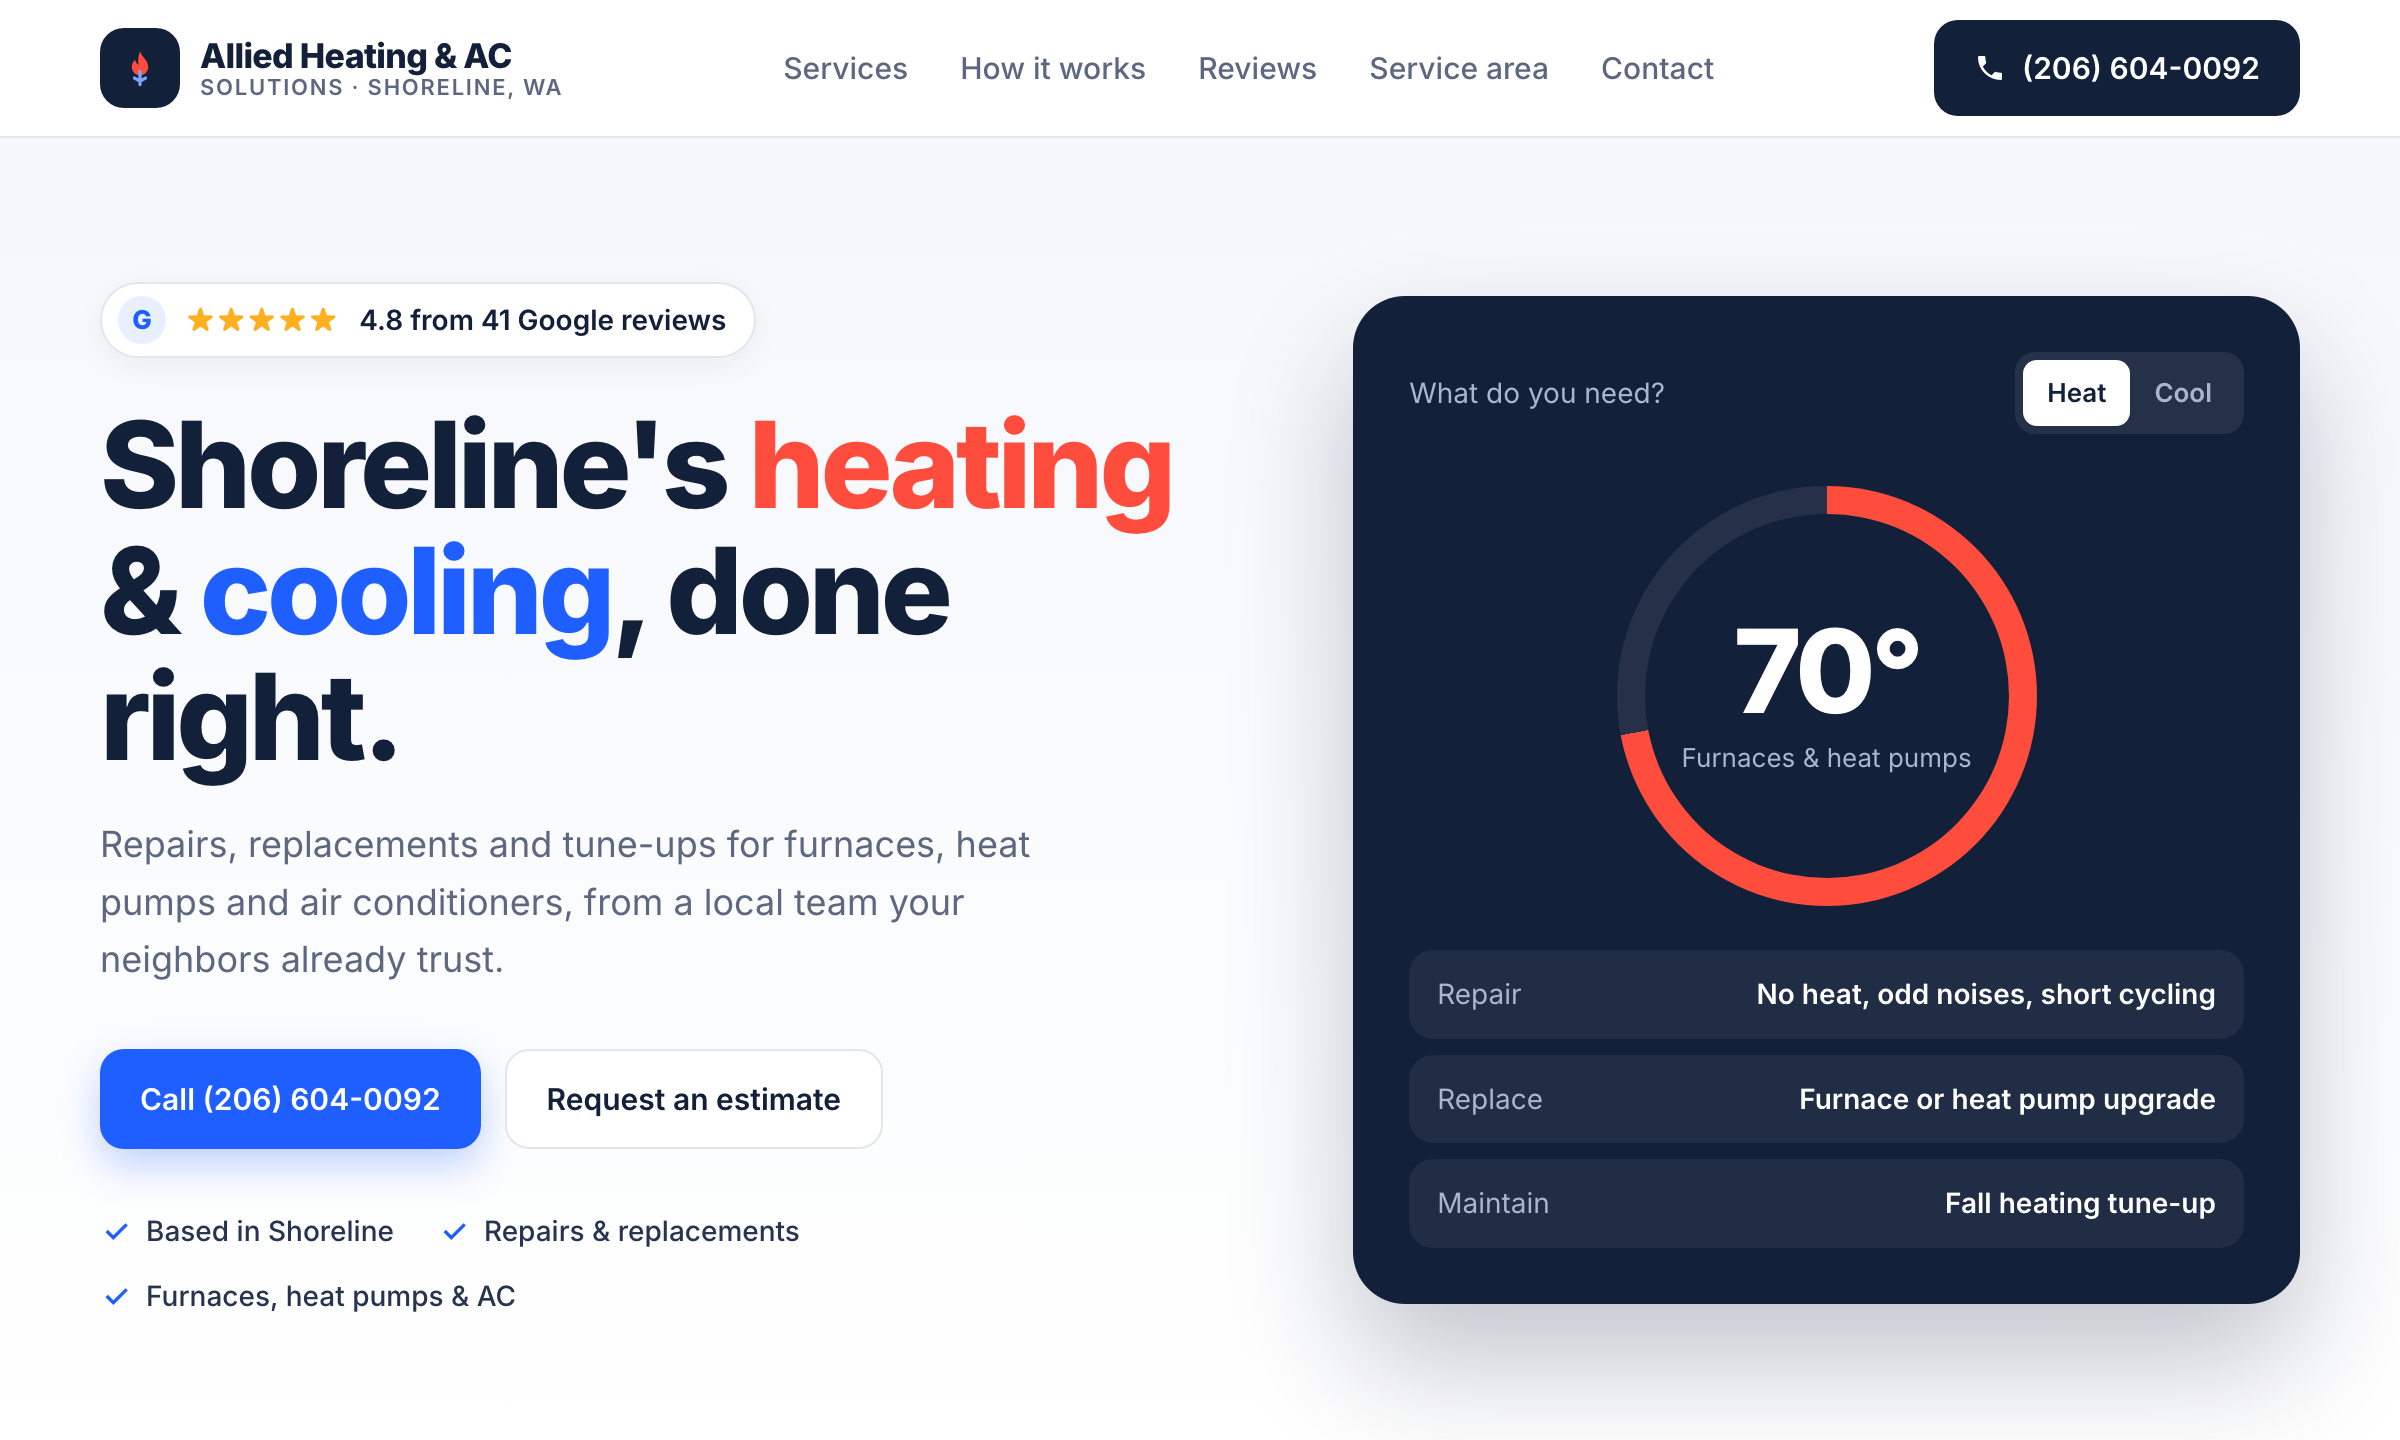
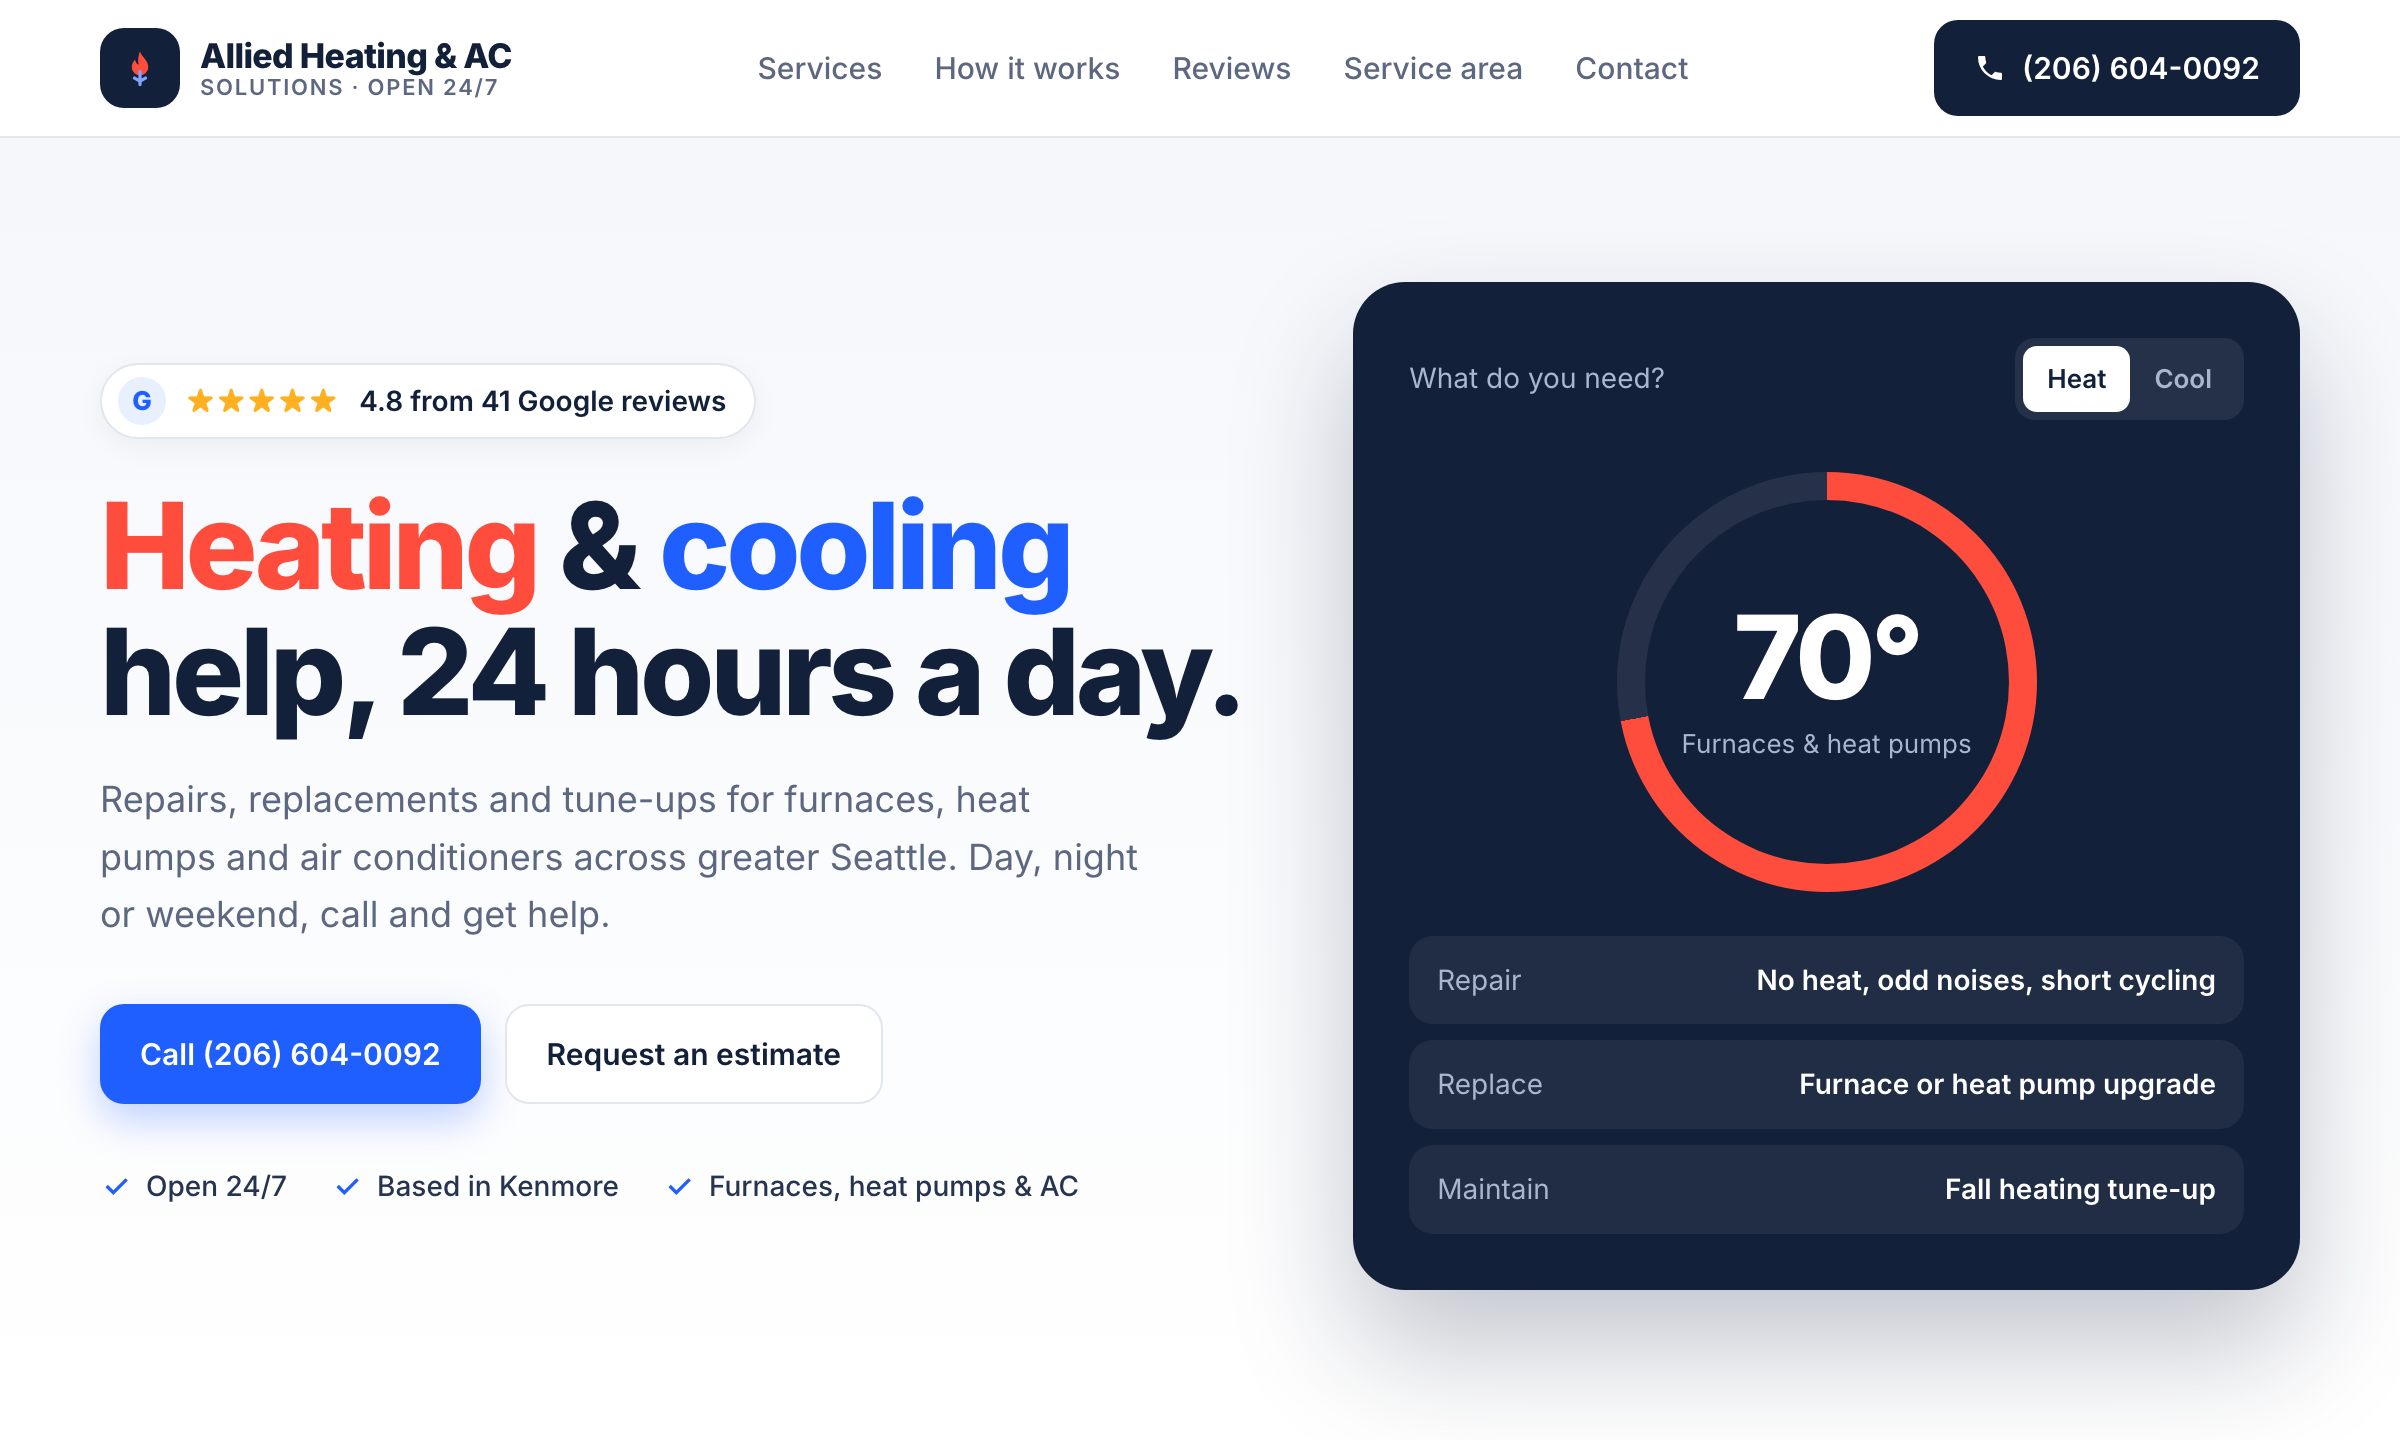
Allied: real email, Kenmore location, 24/7 hours

diff --git a/allied-heating/index.html b/allied-heating/index.html
@@ -3,11 +3,11 @@
 <head>
 <meta charset="utf-8">
 <meta name="viewport" content="width=device-width, initial-scale=1">
-<title>Allied Heating &amp; Air Conditioning Solutions | Shoreline, WA HVAC</title>
-<meta name="description" content="Heating and air conditioning repair, replacement and maintenance in Shoreline, WA and nearby. Rated 4.8 stars on Google. Call (206) 604-0092.">
+<title>Allied Heating &amp; Air Conditioning Solutions | Kenmore &amp; Greater Seattle HVAC, Open 24/7</title>
+<meta name="description" content="Heating and air conditioning repair, replacement and maintenance in Kenmore and greater Seattle, open 24 hours a day. Rated 4.8 stars on Google. Call (206) 604-0092.">
 <meta name="robots" content="noindex"><!-- preview only: remove when it goes live -->
 <meta property="og:title" content="Allied Heating & Air Conditioning Solutions">
-<meta property="og:description" content="Shoreline heating and cooling. Rated 4.8 on Google.">
+<meta property="og:description" content="Kenmore and greater Seattle heating and cooling, open 24/7. Rated 4.8 on Google.">
 <link rel="preconnect" href="https://fonts.googleapis.com">
 <link href="https://fonts.googleapis.com/css2?family=Inter:wght@400;500;600;700;800&display=swap" rel="stylesheet">
 <style>
@@ -170,7 +170,7 @@ footer .wrap{display:flex;flex-wrap:wrap;justify-content:space-between;gap:10px}
   <div class="wrap nav">
     <a href="#top" class="logo">
       <span class="mark"><svg width="22" height="22" viewBox="0 0 24 24" fill="none"><path d="M12 3c.9 3 4.5 4.6 4.5 8.6a4.5 4.5 0 0 1-9 0c0-2 1-3.3 1.8-4.1.3 1.5 1 2.3 2 2.7C10.6 8 11.1 5 12 3Z" fill="#ff4d3d"/><path d="M12 14v7M9 17.5l3 1.7 3-1.7" stroke="#7ea4ff" stroke-width="1.8" stroke-linecap="round"/></svg></span>
-      <span>Allied Heating &amp; AC<small>Solutions · Shoreline, WA</small></span>
+      <span>Allied Heating &amp; AC<small>Solutions · Open 24/7</small></span>
     </a>
     <nav class="links">
       <a href="#services">Services</a>
@@ -188,15 +188,15 @@ footer .wrap{display:flex;flex-wrap:wrap;justify-content:space-between;gap:10px}
     <div class="wrap hero-grid">
       <div>
         <span class="badge"><span class="g">G</span><span class="stars">★★★★★</span> 4.8 from 41 Google reviews</span>
-        <h1>Shoreline's <span class="hot">heating</span> &amp; <span class="cool">cooling</span>, done right.</h1>
-        <p class="lead">Repairs, replacements and tune-ups for furnaces, heat pumps and air conditioners, from a local team your neighbors already trust.</p>
+        <h1><span class="hot">Heating</span> &amp; <span class="cool">cooling</span> help, 24 hours a day.</h1>
+        <p class="lead">Repairs, replacements and tune-ups for furnaces, heat pumps and air conditioners across greater Seattle. Day, night or weekend, call and get help.</p>
         <div class="cta">
           <a class="btn btn-blue" href="tel:+12066040092">Call (206) 604-0092</a>
           <a class="btn btn-white" href="#contact">Request an estimate</a>
         </div>
         <div class="ticks">
-          <span><svg width="16" height="16" viewBox="0 0 24 24" fill="none" stroke="currentColor" stroke-width="2.5"><path d="m5 12 5 5L20 7"/></svg>Based in Shoreline</span>
-          <span><svg width="16" height="16" viewBox="0 0 24 24" fill="none" stroke="currentColor" stroke-width="2.5"><path d="m5 12 5 5L20 7"/></svg>Repairs &amp; replacements</span>
+          <span><svg width="16" height="16" viewBox="0 0 24 24" fill="none" stroke="currentColor" stroke-width="2.5"><path d="m5 12 5 5L20 7"/></svg>Open 24/7</span>
+          <span><svg width="16" height="16" viewBox="0 0 24 24" fill="none" stroke="currentColor" stroke-width="2.5"><path d="m5 12 5 5L20 7"/></svg>Based in Kenmore</span>
           <span><svg width="16" height="16" viewBox="0 0 24 24" fill="none" stroke="currentColor" stroke-width="2.5"><path d="m5 12 5 5L20 7"/></svg>Furnaces, heat pumps &amp; AC</span>
         </div>
       </div>
@@ -280,7 +280,7 @@ footer .wrap{display:flex;flex-wrap:wrap;justify-content:space-between;gap:10px}
       <div class="rev-top">
         <div>
           <div class="kicker" style="color:#7ea4ff">Reviews</div>
-          <h2>What Shoreline neighbors say</h2>
+          <h2>What customers say</h2>
         </div>
         <div class="score"><b>4.8</b><span><span class="stars">★★★★★</span><br>41 reviews on Google</span></div>
       </div>
@@ -296,11 +296,11 @@ footer .wrap{display:flex;flex-wrap:wrap;justify-content:space-between;gap:10px}
     <div class="wrap area-grid">
       <div>
         <div class="kicker">Service area</div>
-        <h2>Based in Shoreline, serving the north end</h2>
-        <p class="sub" style="margin-bottom:24px">Close by means faster visits. <span class="ph">Confirm cities served</span></p>
-        <div class="chips"><span class="chip home">Shoreline</span><span class="chip">North Seattle</span><span class="chip">Lake Forest Park</span><span class="chip">Edmonds</span><span class="chip">Mountlake Terrace</span><span class="chip">Kenmore</span><span class="chip">Lynnwood</span></div>
+        <h2>Based in Kenmore, serving greater Seattle</h2>
+        <p class="sub" style="margin-bottom:24px">Day or night, we come to you. <span class="ph">Confirm cities served</span></p>
+        <div class="chips"><span class="chip home">Kenmore</span><span class="chip">Seattle</span><span class="chip">Shoreline</span><span class="chip">Lake Forest Park</span><span class="chip">Bothell</span><span class="chip">Kirkland</span><span class="chip">Woodinville</span><span class="chip">Edmonds</span></div>
       </div>
-      <div class="map" aria-hidden="true"><span class="pin"><i></i>Shoreline, WA</span></div>
+      <div class="map" aria-hidden="true"><span class="pin"><i></i>Kenmore, WA</span></div>
     </div>
   </section>
 
@@ -309,11 +309,11 @@ footer .wrap{display:flex;flex-wrap:wrap;justify-content:space-between;gap:10px}
       <div>
         <div class="kicker">Contact</div>
         <h2>Request an estimate</h2>
-        <p class="sub">Call for the quickest answer, or send a request and we'll get back to you.</p>
+        <p class="sub">We answer 24 hours a day. Call for the quickest help, or send a request.</p>
         <div class="c-list">
           <a class="c-item" href="tel:+12066040092"><svg width="22" height="22" viewBox="0 0 24 24" fill="currentColor"><path d="M6.6 10.8a15.1 15.1 0 0 0 6.6 6.6l2.2-2.2c.3-.3.7-.4 1-.2 1.1.4 2.3.6 3.6.6.6 0 1 .4 1 1V20c0 .6-.4 1-1 1A17 17 0 0 1 3 4c0-.6.4-1 1-1h3.5c.6 0 1 .4 1 1 0 1.3.2 2.5.6 3.6.1.3 0 .7-.2 1l-2.3 2.2Z"/></svg><div><small>Phone</small><b>(206) 604-0092</b></div></a>
-          <div class="c-item"><svg width="22" height="22" viewBox="0 0 24 24" fill="none" stroke="currentColor" stroke-width="2"><rect x="3" y="5" width="18" height="14" rx="2"/><path d="m3 7 9 6 9-6"/></svg><div><small>Email</small><b><span class="ph">email@business.com</span></b></div></div>
-          <div class="c-item"><svg width="22" height="22" viewBox="0 0 24 24" fill="none" stroke="currentColor" stroke-width="2"><circle cx="12" cy="12" r="9"/><path d="M12 7v5l3 2"/></svg><div><small>Hours</small><b><span class="ph">Mon–Fri 8–6 · Sat 9–3</span></b></div></div>
+          <a class="c-item" href="mailto:alliedcompleterepair@yahoo.com"><svg width="22" height="22" viewBox="0 0 24 24" fill="none" stroke="currentColor" stroke-width="2"><rect x="3" y="5" width="18" height="14" rx="2"/><path d="m3 7 9 6 9-6"/></svg><div><small>Email</small><b style="word-break:break-all">alliedcompleterepair@yahoo.com</b></div></a>
+          <div class="c-item"><svg width="22" height="22" viewBox="0 0 24 24" fill="none" stroke="currentColor" stroke-width="2"><circle cx="12" cy="12" r="9"/><path d="M12 7v5l3 2"/></svg><div><small>Hours</small><b>Open 24 hours, 7 days a week</b></div></div>
         </div>
       </div>
       <form id="form">
@@ -336,7 +336,7 @@ footer .wrap{display:flex;flex-wrap:wrap;justify-content:space-between;gap:10px}
 
 <footer>
   <div class="wrap">
-    <span>© <span id="yr"></span> Allied Heating &amp; Air Conditioning Solutions · Shoreline, WA</span>
+    <span>© <span id="yr"></span> Allied Heating &amp; Air Conditioning Solutions · Kenmore, WA</span>
     <span>(206) 604-0092</span>
   </div>
 </footer>
